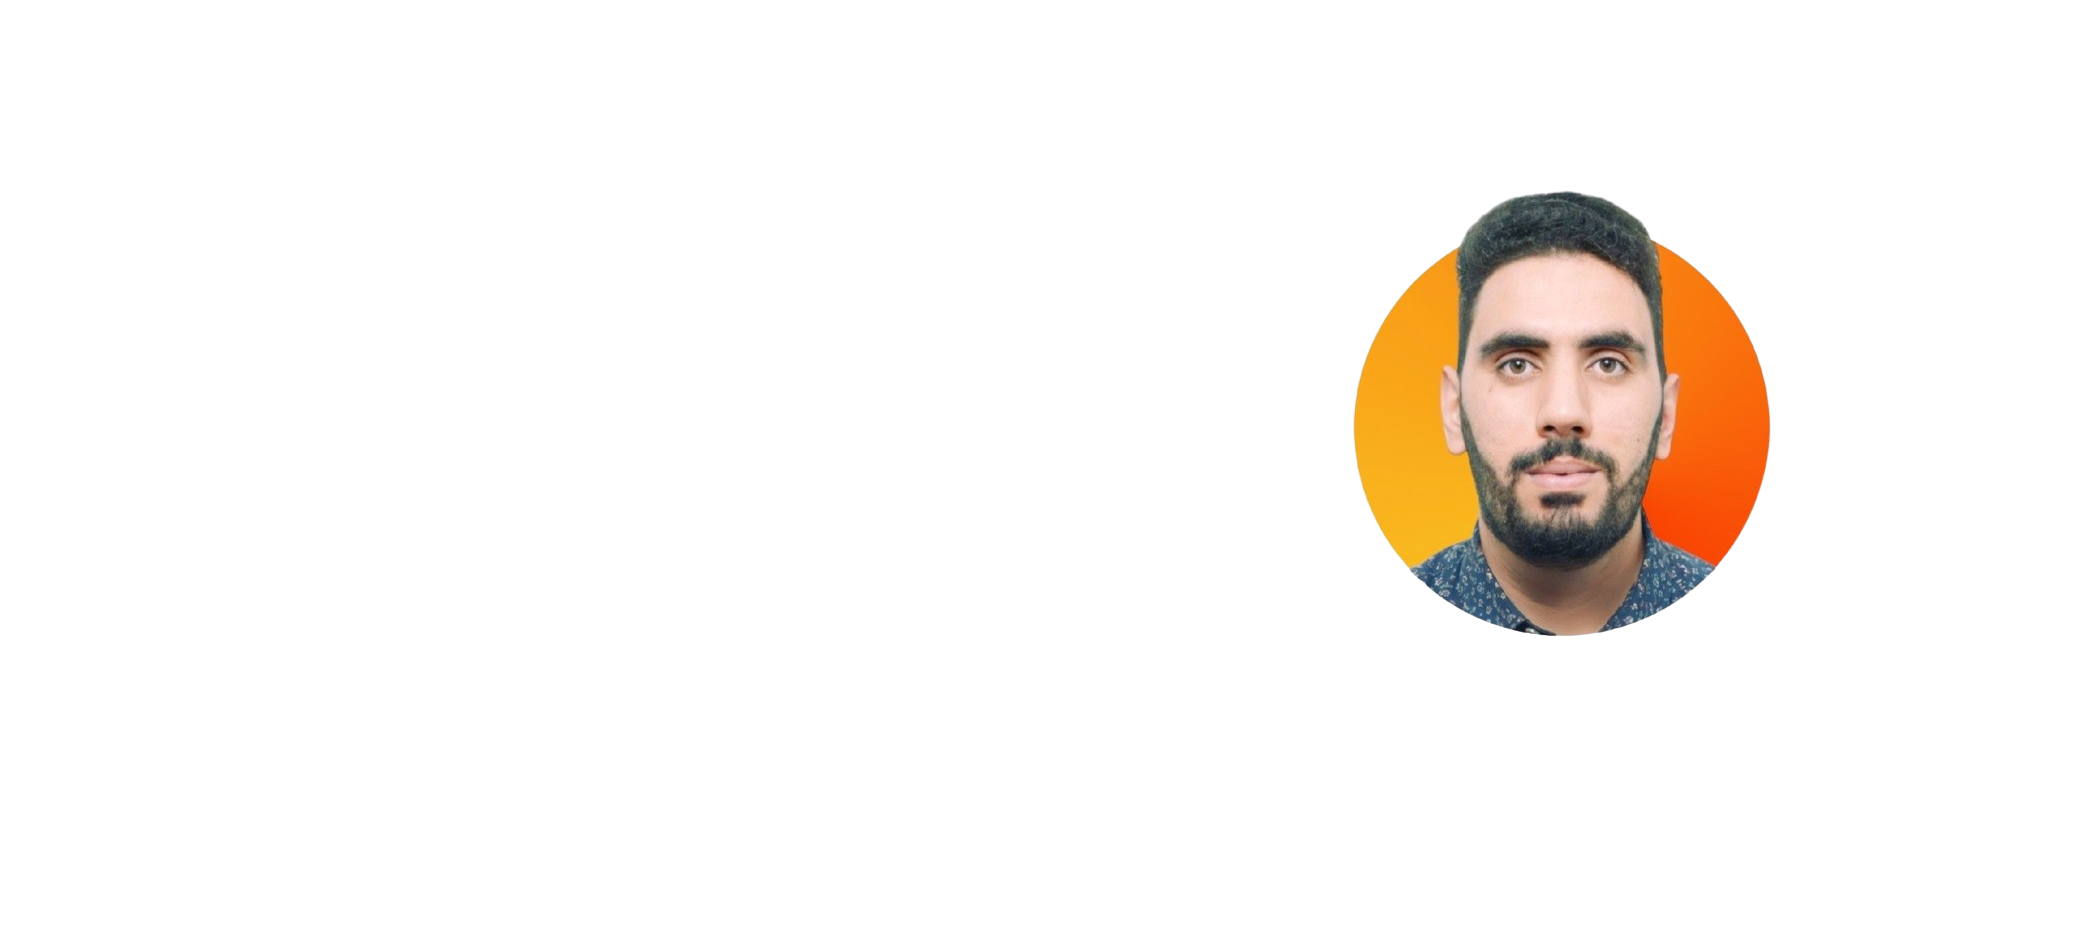
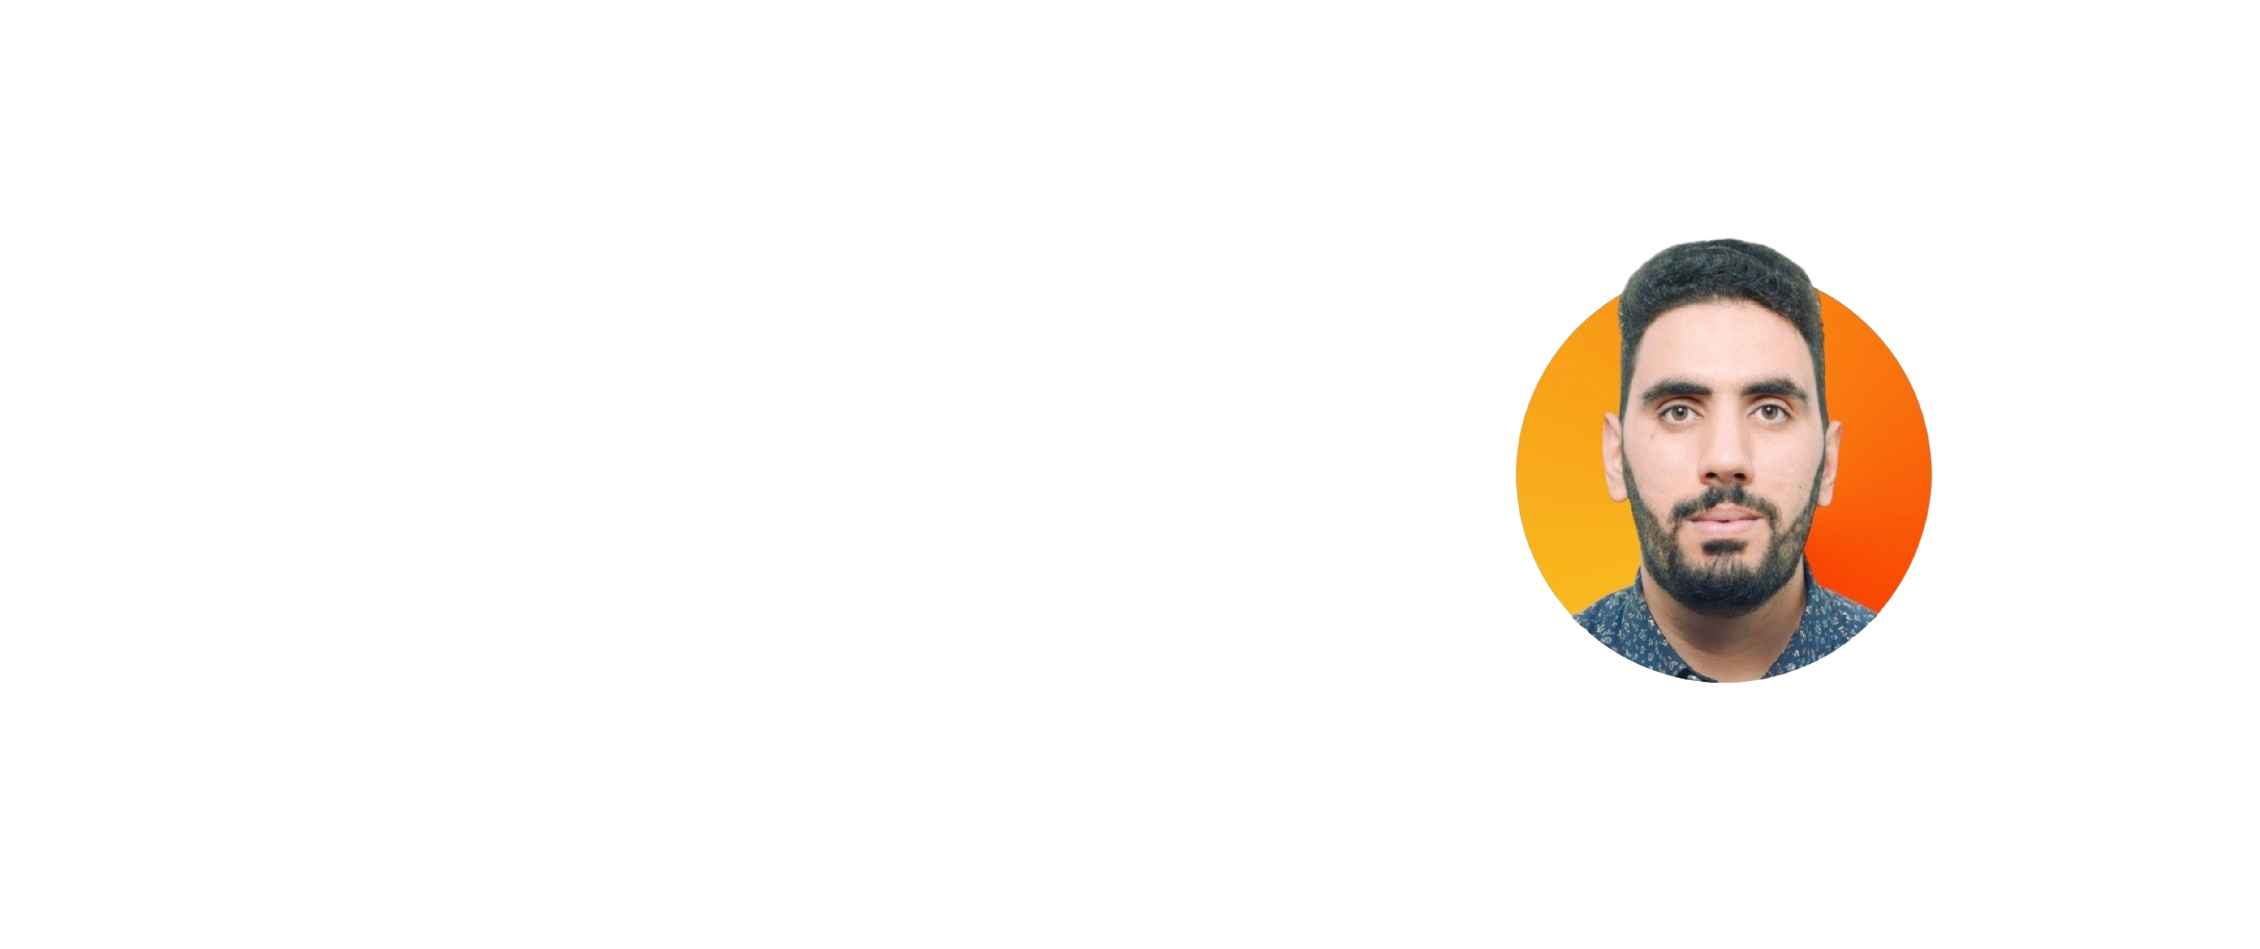
n commit

Changed region(s): [[0.6196, 0.1869, 0.8675, 0.7164]]

diff --git a/index.html b/index.html
@@ -63,13 +63,46 @@
     <!-- about -->
     <section class="about" id="about">
         <div class="about-img">
-            <img src="img/about.jpg">
+            <img src="img/about.png">
+        </div>
+        <div class="about-text">
+            <h2> I am XXX <span> Xxxx</span> <br> & Xxxxx</h2>
+            <div class="exp-area">
+                <p class="exp">
+                    Experience:
+                    <span> X Years</span>
+                </p>
+
+                <p class="exp">
+                    Speciality:
+                    <span> Xxxxxxxxxxxxxxx, xxxxx, xxxx</span>
+                </p>
+
+                <p class="exp">
+                    Address:
+                    <span> Nancy, France</span>
+                </p>
+
+                <p class="exp">
+                    Email:
+                    <span> mel.moussaoui@outlook.com</span>
+                </p>
+
+                <p class="exp">
+                    Phone:
+                    <span> +33 6 26XXXXXXXXX</span>
+                </p>
+
+                <p class="exp">
+                    Availability:
+                    <span> Immediate</span>
+                </p>
+            </div>
+            <a href="#" class="btn">View all projects </a>
         </div>
     </section>
 
-    
-
     <!--js link-->
-    <script src="js/script.js"></script>
+    <script src="D:\Projects-Github\my-portfolio/script.js"></script>
 </body>
 </html>

diff --git a/style.css b/style.css
@@ -16,8 +16,8 @@
     --other-color:#c3cad5;
 
     --h1-font: 2.5rem;
-    --h2-font: 2.9rem;
-    --p-font: 1rem;
+    --h2-font: 2.1rem; /*it was 2.9rem */
+    --p-font: 1rem;    
 }
 
 body{
@@ -171,6 +171,48 @@ span{
     transition: all .50s ease;
 }
 .btn2:hover{
-  background: var(--main-color);
-  color: var(--bg-color);
+    background: var(--main-color);
+    color: var(--bg-color);
+}
+header.sticky{
+    background: var(--bg-color);
+    box-shadow: 0 .1rem 1rem rgba(0, 0, 0, 0.2);
+    padding: 16px 16%;
+}
+.about{
+    background: var(--second-bg-color);
+    display: grid;
+    grid-template-columns: repeat(2, 1fr);
+    align-items: center;
+    gap: 9rem; /* il etait 1 au début */
+    text-align: left; /*je l'ai ajouté moi meme */
+}
+.about-img img{
+    width: 100%;
+    height: 530px;
+    max-width: 530px;
+    border-radius: 50%;
+    object-fit: cover;
+    border: 7px solid var(--main-color);
+    box-shadow: 0 0 20px var(--main-color);
+}
+.about-text h2{ 
+    font-size: var(--h2-font); 
+    line-height: 1.3;
+    margin-bottom: 20px;
+}
+.exp-area{
+    margin-bottom: 50px;
+}
+.exp-area p{
+    color: var(--text-color);
+    font-weight: 600;
+    font-size: 19px;
+    line-height: 42px;
+}
+.exp-area p span{
+    color: var(--other-color);
+    font-size: var(--p-font);
+    font-weight: 400;
+    margin-left: 8px;
 }

diff --git a/Script.js b/Script.js
@@ -1,0 +1,5 @@
+const header = document.querySelector("header");
+
+window.addEventListener("scroll", function() {
+    header.classList.toggle("sticky", window.scrollY > 120);
+});
